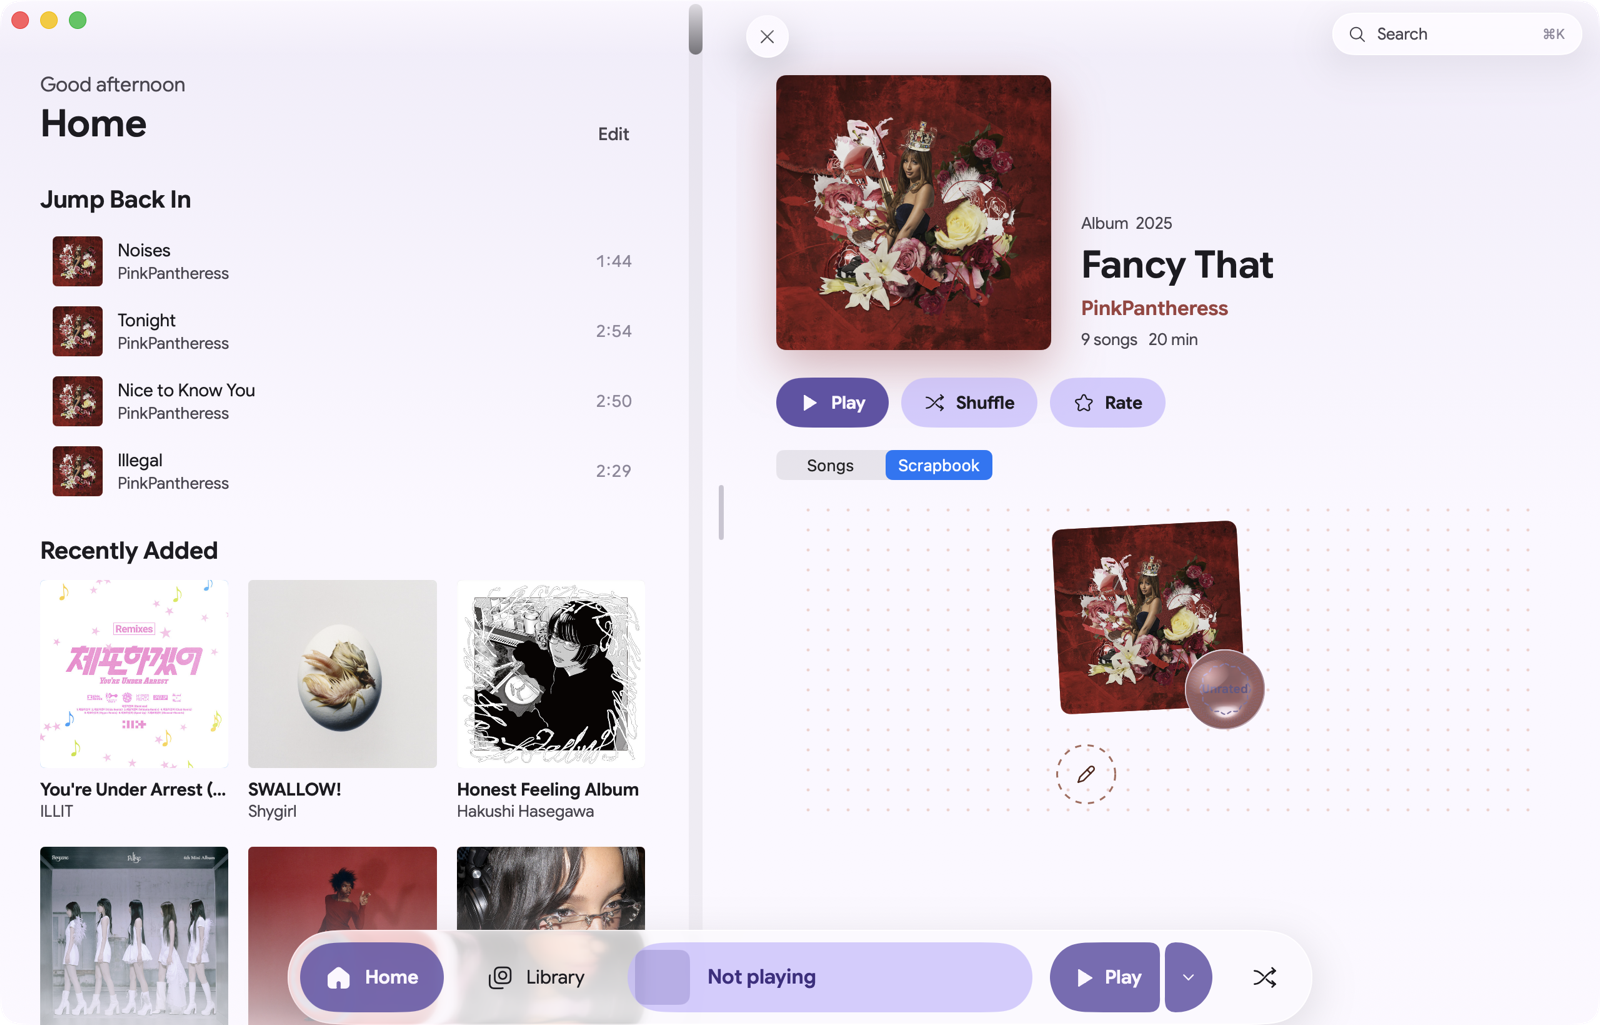
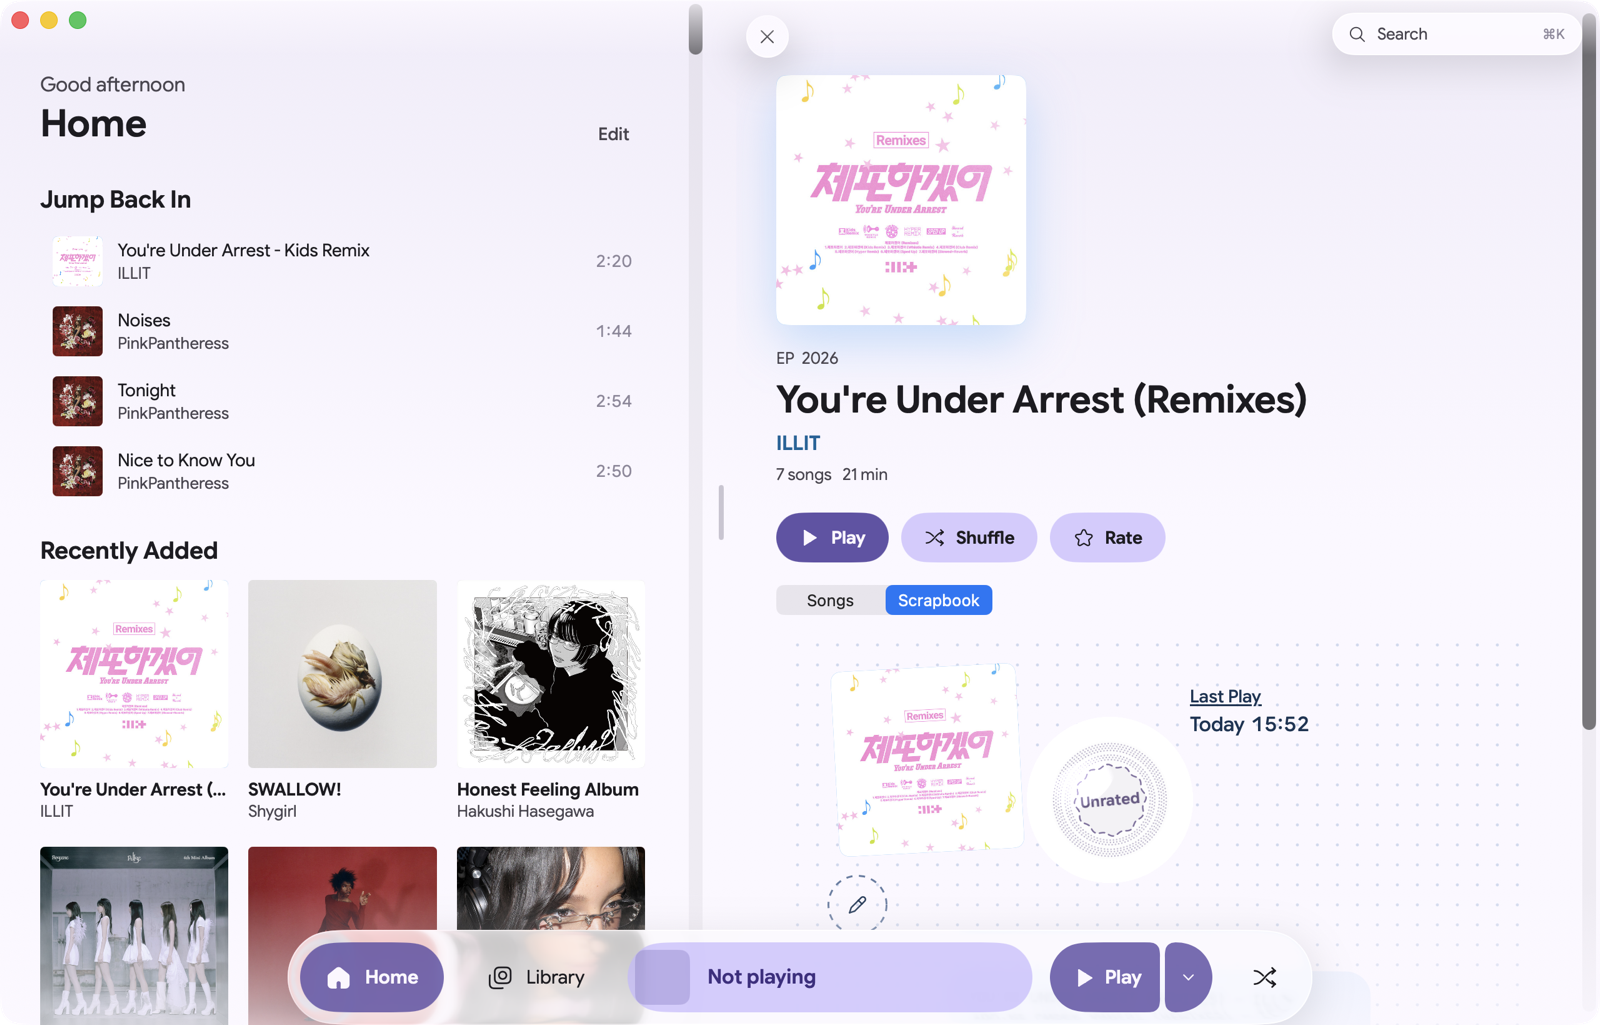
fix(mac): a Spotify album's scrapbook stamp sits beside the cover, never on it; the stamp at 96 so Unrated reads at 1x; the jump bar groups a by-name sort into # / A–Z / あ / 가 / 汉; screenshots retaken

diff --git a/iosApp/YoinMac/UI/MacAlbumScrapbook.swift b/iosApp/YoinMac/UI/MacAlbumScrapbook.swift
@@ -106,22 +106,37 @@ struct MacAlbumScrapbook: View {
 
     // MARK: Opening cluster
 
+    /// The stamp's size on the Mac: the phone's 64 reads too small at 1x (its "Unrated" was 9.5 pt).
+    static let badge: CGFloat = 96
+    /// Nothing is drawn over a Spotify cover (51's rule): its stamp sits beside it, never on it.
+    private var stampBeside: Bool { album.id.provider == SpotifyMapping.provider }
+
     private var opening: some View {
         let cover = Tokens.detail.SCRAPBOOK_COVER.cg
-        let badge = Tokens.detail.SCRAPBOOK_BADGE.cg
+        let badge = Self.badge
         let overhangX = Tokens.detail.SCRAPBOOK_BADGE_OVERHANG_X.cg
+        let emblem = ScoreEmblem(score: bun.score, kind: bun.kind, rated: bun.rated, palette: album.palette, size: badge,
+                                 award: bun.kind == .unrated ? nil : award, onCover: !stampBeside)
+        let coverArt = MacCover(palette: album.palette, corner: Tokens.shape.HERO.cg)
+            .frame(width: cover, height: cover)
+            .rotationEffect(.degrees(tilt("cover", Tilt.cover)))
         return VStack(alignment: .leading, spacing: 4) {
             HStack(alignment: .top, spacing: 0) {
-                ZStack(alignment: .bottomTrailing) {
-                    MacCover(palette: album.palette, corner: Tokens.shape.HERO.cg)
-                        .frame(width: cover, height: cover)
-                        .rotationEffect(.degrees(tilt("cover", Tilt.cover)))
-                        .frame(width: cover, height: cover + Tokens.detail.SCRAPBOOK_BADGE_OVERHANG_Y.cg * badge, alignment: .top)
-                    ScoreEmblem(score: bun.score, kind: bun.kind, rated: bun.rated, palette: album.palette, size: badge,
-                                award: bun.kind == .unrated ? nil : award, onCover: true)
-                        .offset(x: overhangX * badge)
+                if stampBeside {
+                    // A clear gap past the cover's tilted corners, the stamp level with its foot.
+                    HStack(alignment: .bottom, spacing: 18) {
+                        coverArt.padding(6)
+                        emblem.rotationEffect(.degrees(tilt("stamp", Tilt.sticker)))
+                    }
+                    Spacer().frame(width: 16)
+                } else {
+                    ZStack(alignment: .bottomTrailing) {
+                        coverArt
+                            .frame(width: cover, height: cover + Tokens.detail.SCRAPBOOK_BADGE_OVERHANG_Y.cg * badge, alignment: .top)
+                        emblem.offset(x: overhangX * badge)
+                    }
+                    Spacer().frame(width: overhangX * badge + 12)
                 }
-                Spacer().frame(width: overhangX * badge + 12)
                 VStack(alignment: .leading, spacing: 0) {
                     if let memoryTitle { openingTitle(memoryTitle) }
                     if let last = stats.last {

diff --git a/iosApp/YoinMac/UI/MacLibraryView.swift b/iosApp/YoinMac/UI/MacLibraryView.swift
@@ -54,7 +54,41 @@ struct MacLibraryView: View {
         let sorter = sorter
         let order = sort(kind)
         let items = sorter.sorted(raw, by: order)
-        return (items, LibraryScrollIndex.sections(items, sort: order, sorter: sorter))
+        let sections = LibraryScrollIndex.sections(items, sort: order, sorter: sorter)
+        return (items, order == .alphabetical || order == .creator ? Self.grouped(sections) : sections)
+    }
+
+    /// The jump bar's groups for a by-name order: # and A–Z, then one each for kana (あ), Hangul (가) and
+    /// CJK (汉) — one entry per character there was noise (40 single ideographs). Each group jumps to its
+    /// first item in the list.
+    static func grouped(_ sections: [LibraryFastScroller.Section]) -> [LibraryFastScroller.Section] {
+        func group(_ label: String) -> String {
+            guard let u = label.unicodeScalars.first else { return "#" }
+            switch u.value {
+            case 0x3040...0x30FF, 0x31F0...0x31FF, 0xFF66...0xFF9D: return "あ"
+            case 0x1100...0x11FF, 0x3130...0x318F, 0xAC00...0xD7AF: return "가"
+            case 0x3400...0x4DBF, 0x4E00...0x9FFF, 0xF900...0xFAFF, 0x20000...0x2FFFF: return "汉"
+            default:
+                let folded = label.folding(options: [.diacriticInsensitive, .caseInsensitive], locale: nil).uppercased()
+                if let c = folded.first, c.isASCII, c.isLetter { return String(c) }
+                return "#"
+            }
+        }
+        var first: [String: Int] = [:]
+        for s in sections {
+            let g = group(s.label)
+            first[g] = min(first[g] ?? .max, s.start)
+        }
+        func rank(_ g: String) -> Int {
+            switch g {
+            case "#": 0
+            case "あ": 100
+            case "가": 101
+            case "汉": 102
+            default: Int(g.unicodeScalars.first!.value)
+            }
+        }
+        return first.keys.sorted { rank($0) < rank($1) }.map { .init(label: $0, start: first[$0]!) }
     }
 
     var body: some View {
